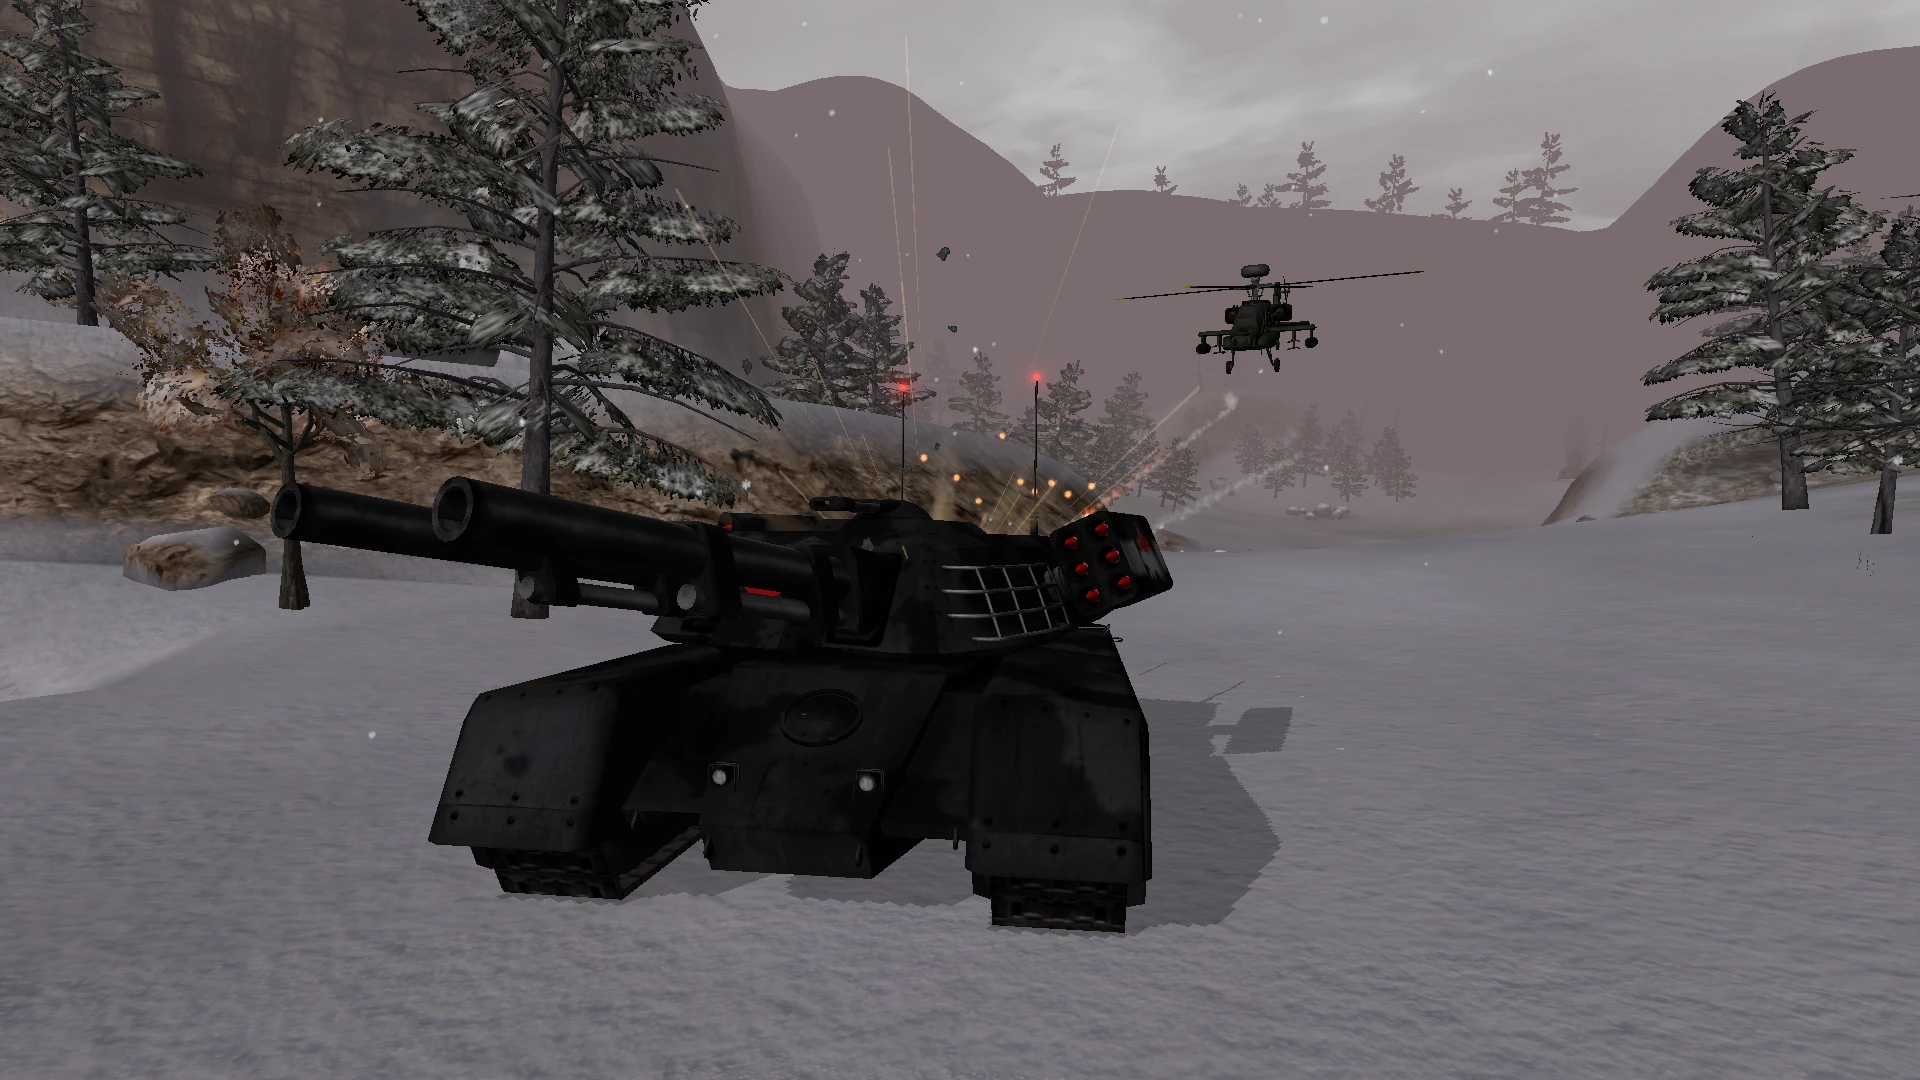
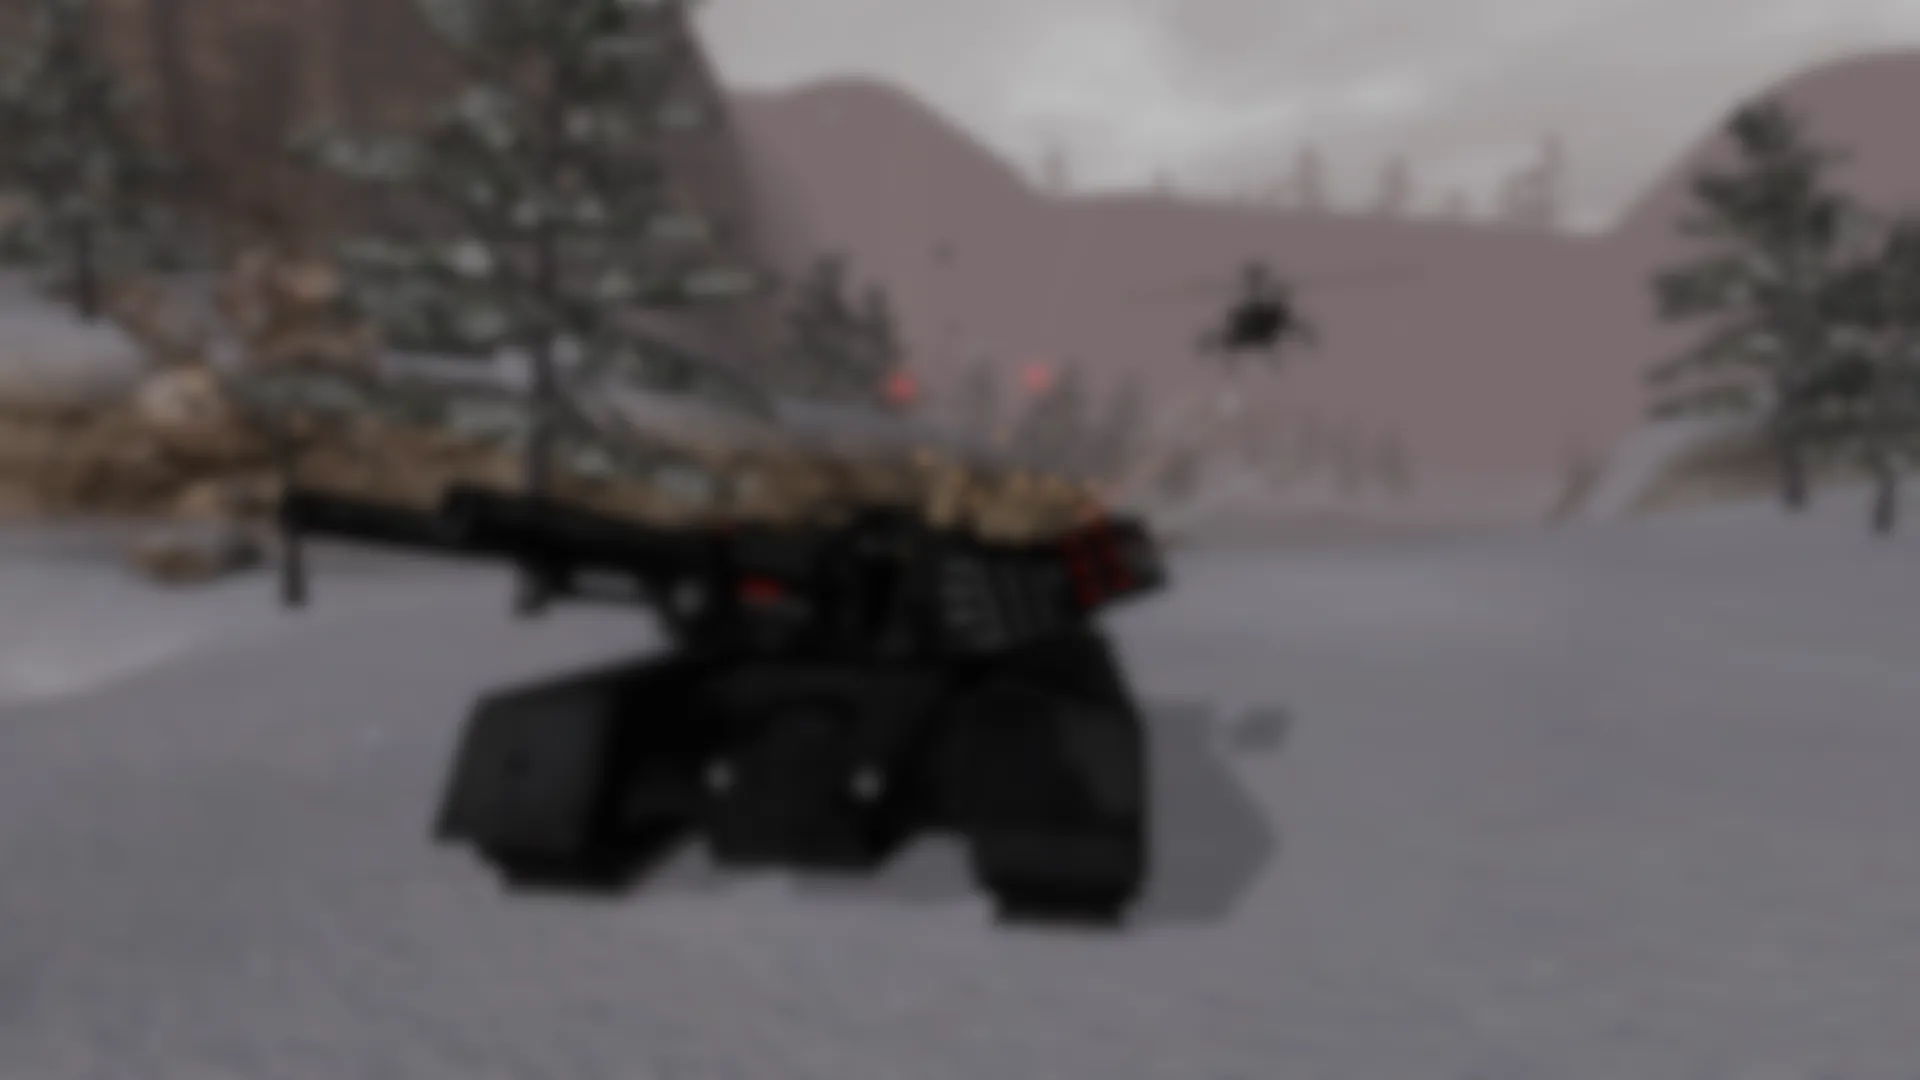
Progress: blurred backgrounds, prototyped dialog

diff --git a/index.html b/index.html
@@ -58,5 +58,164 @@
         </ul>
       </div>
     </footer>
+
+    <dialog open>
+      <header>
+        <div class="container">
+          <ul>
+            <li class="clip-text">
+              <strong>SERVER NAME GOES HERE SERVER NAME GOES HERE SERVER NAME GOES HERE</strong>
+            </li>
+          </ul>
+        </div>
+      </header>
+
+      <main>
+        <div class="container center-container">
+          <div class="host">
+            <div class="card team-card">
+              <div class="row server-row">
+                <div class="column grow max-width-50-percent">
+                  <strong class="clip-text">Map</strong>
+                  <p class="clip-text">CURRENT MAP NAME HERE CURRENT MAP NAME HERE</p>
+
+                  <strong class="clip-text">Next Map</strong>
+                  <p class="clip-text">NEXT MAP NAME HERE</p>
+
+                  <strong class="clip-text">Region</strong>
+                  <p class="clip-text">REGION NAME HERE</p>
+                </div>
+
+                <div class="column grow">
+                  <strong class="clip-text">Ping</strong>
+                  <p class="clip-text">—</p>
+
+                  <strong class="clip-text">Time</strong>
+                  <p class="clip-text">00:00:00</p>
+
+                  <strong class="clip-text">Channel</strong>
+                  <p class="clip-text">Modern Client</p>
+                </div>
+
+                <div class="column">
+                  <strong class="clip-text">Players</strong>
+                  <p class="clip-text">999/999</p>
+
+                  <strong class="clip-text">Time Left</strong>
+                  <p class="clip-text">00:00:00</p>
+
+                  <strong class="clip-text">Version</strong>
+                  <p class="clip-text">10.10.10.10</p>
+                </div>
+              </div>
+            </div>
+
+            <!--TEAMS-->
+
+            <div class="card team-card">
+              <div class="row server-row faction-row">
+                <img src="media/images/factions/faction_apb_soviets.webp" class="icon" />
+                <strong>Soviets</strong>
+              </div>
+
+              <div class="row server-row">
+                <div class="column grow">
+                  <strong>Score</strong>
+                  <p>99999999</p>
+                </div>
+                <div class="column grow">
+                  <strong>Kills</strong>
+                  <p>99999999</p>
+                </div>
+                <div class="column grow">
+                  <strong>Deaths</strong>
+                  <p>99999999</p>
+                </div>
+                <div class="column">
+                  <strong>Players</strong>
+                  <p>999/999</p>
+                </div>
+              </div>
+
+              <hr/>
+
+              <div class="roster-grid">
+                <strong>Name</strong>
+                <strong>Score</strong>
+                <strong>Kills</strong>
+                <strong>Deaths</strong>
+                <strong>Ping</strong>
+                <strong>Time</strong>
+
+                <p class="clip-text">HELLO REALLY LONG NAME</p>
+                <p class="clip-text">9999</p>
+                <p class="clip-text">999</p>
+                <p class="clip-text">999</p>
+                <p class="clip-text">999</p>
+                <p class="clip-text">00:00:00</p>
+
+                <p class="clip-text">eyo</p>
+                <p class="clip-text">99</p>
+                <p class="clip-text">9</p>
+                <p class="clip-text">2</p>
+                <p class="clip-text">5</p>
+                <p class="clip-text">00:01:21</p>
+              </div>
+            </div>
+
+            <div class="card team-card">
+              <div class="row server-row faction-row">
+                <img src="media/images/factions/faction_apb_allies.webp" class="icon" />
+                <strong>Allies</strong>
+              </div>
+
+              <div class="row server-row">
+                <div class="column grow">
+                  <strong>Score</strong>
+                  <p>99999999</p>
+                </div>
+                <div class="column grow">
+                  <strong>Kills</strong>
+                  <p>99999999</p>
+                </div>
+                <div class="column grow">
+                  <strong>Deaths</strong>
+                  <p>99999999</p>
+                </div>
+                <div class="column">
+                  <strong>Players</strong>
+                  <p>999/999</p>
+                </div>
+              </div>
+
+              <hr/>
+
+              <div class="roster-grid">
+                <strong>Name</strong>
+                <strong>Score</strong>
+                <strong>Kills</strong>
+                <strong>Deaths</strong>
+                <strong>Ping</strong>
+                <strong>Time</strong>
+
+                <p class="clip-text">HELLO REALLY LONG NAME</p>
+                <p class="clip-text">9999</p>
+                <p class="clip-text">999</p>
+                <p class="clip-text">999</p>
+                <p class="clip-text">999</p>
+                <p class="clip-text">00:00:00</p>
+
+                <p class="clip-text">eyo</p>
+                <p class="clip-text">99</p>
+                <p class="clip-text">9</p>
+                <p class="clip-text">2</p>
+                <p class="clip-text">5</p>
+                <p class="clip-text">00:01:21</p>
+              </div>
+            </div>
+          </div>
+        </div>
+      </main>
+    </dialog>
   </body>
 </html>

diff --git a/media/css/style.css b/media/css/style.css
@@ -13,6 +13,11 @@ html {
   width: 100%;
   min-height: 100%;
   display: flex;
+  font-size: 0.8rem;
+  font-family: "Noto Sans", sans-serif;
+  text-rendering: optimizeLegibility;
+  text-shadow: 0px 1.5pt 2pt #0008;
+  color: white;
 }
 
 body {
@@ -21,11 +26,6 @@ body {
   background-size: cover;
   background-position: center;
   background-repeat: no-repeat;
-  font-size: 0.8rem;
-  font-family: "Noto Sans", sans-serif;
-  text-rendering: optimizeLegibility;
-  text-shadow: 0px 1.5pt 2pt #0008;
-  color: white;
   display: flex;
   flex-flow: column;
   flex-grow: 1;
@@ -56,6 +56,33 @@ ul {
   list-style: none;
 }
 
+dialog {
+  border: none;
+  color: white;
+  background-color: dimgray;
+  background-image: url("/media/images/apb/banner.webp");
+  background-size: cover;
+  background-position: center;
+  background-repeat: no-repeat;
+  filter: blur(10%);
+  display: flex;
+  flex-flow: column;
+  flex-grow: 1;
+  height: 100vh;
+  width: 100%;
+}
+
+hr {
+  border: none;
+  height: 2pt;
+  width: 100%;
+  margin-top: var(--padding);
+  margin-bottom: var(--padding);
+  margin-left: calc(-1 * var(--padding));
+  padding-right: calc(2 * var(--padding)); /* layout hack to get full width with padding element margin/padding */
+  background-color: #0004;
+}
+
 .container {
   padding: 0px var(--padding);
   display: flex;
@@ -72,6 +99,10 @@ ul {
   padding: var(--padding);
 }
 
+.team-card {
+  margin-top: calc(4 * var(--padding));
+}
+
 .row {
   display: flex;
   flex-flow: row;
@@ -83,6 +114,12 @@ ul {
 .server-row img {
   margin-top: auto;
   margin-bottom: auto;
+}
+
+.faction-row > * {
+  display: flex;
+  align-items: center;
+  font-size: 1.5rem;
 }
 
 .host {
@@ -113,8 +150,52 @@ ul {
   text-wrap: nowrap;
 }
 
+.max-width-one-third {
+  max-width: calc(100% * 1 / 3);
+}
+
+.max-width-two-third {
+  max-width: calc(100% * 2 / 3);
+}
+
+.max-width-50-percent {
+  max-width: 50%;
+}
+
+.overflow-scroll {
+  overflow: scroll;
+}
+
 .icon {
   max-height: 24pt;
   height: 100%;
   width: auto;
+}
+
+.roster-grid {
+  display: grid;
+  grid-template-columns: auto auto auto auto auto auto;
+  /*grid-gap: var(--padding);*/
+}
+
+.roster-grid > * {
+  padding: var(--padding);
+}
+
+.roster-grid >:nth-child(12n+1),
+.roster-grid >:nth-child(12n+2),
+.roster-grid >:nth-child(12n+3),
+.roster-grid >:nth-child(12n+4),
+.roster-grid >:nth-child(12n+5),
+.roster-grid >:nth-child(12n+6) {
+  background: #0004;
+}
+
+.roster-grid >:nth-child(-n+1),
+.roster-grid >:nth-child(-n+2),
+.roster-grid >:nth-child(-n+3),
+.roster-grid >:nth-child(-n+4),
+.roster-grid >:nth-child(-n+5),
+.roster-grid >:nth-child(-n+6) {
+  background: none;
 }
